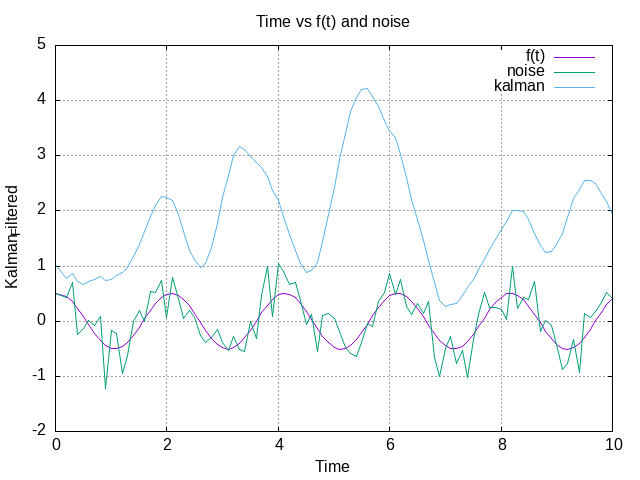
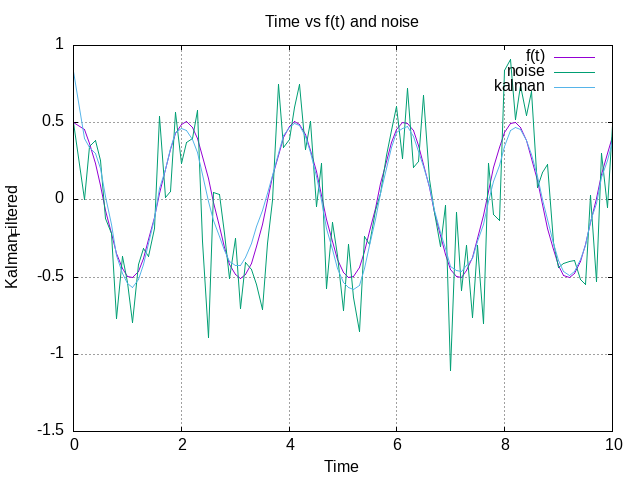
Kalman Filter Works

diff --git a/simulator.cpp b/simulator.cpp
@@ -118,10 +118,10 @@ std::ostream &operator<<(std::ostream &os, Sensor s) {
 }
 
 
-// enum To {
-//   ToPredict,
-//   ToUpdate,
-// }
+enum To {
+  ToPredict,
+  ToUpdate,
+};
 
 class KalmanFilter {
 public:
@@ -150,7 +150,7 @@ public:
   int time = 0;
   float period = 0.1f;
 
-  // To todo;
+  To todo;
 
   KalmanFilter() {
     state(0,0) = 0.5f;
@@ -180,18 +180,23 @@ public:
   }
 
   void predict() {
-    // if (todo != ToPredict) return;
+    //if (todo != ToPredict) return;
 
     popolate_model_jacobian();
 
-    buffer(0,0) = state(0,0) + period*state(1,0);
-    buffer(1,0) = state(1,0) + period*9.81*sin(state(0,0));
+    state(0,0) = state(0,0) + period*state(1,0);
+    state(1,0) = state(1,0) - period*9.81*sin(state(0,0));
 
-    state = buffer;
 
-    bufferm = Jacobian_Model*state_cov*Jacobian_Model.transpose() + W;
-    state_cov = bufferm;
-    //todo = ToUpdate;
+    // std::cout << "#####" << std::endl;
+    // std::cout << Jacobian_Model << std::endl;
+    // std::cout << "#####" << std::endl;
+
+
+
+    state_cov = Jacobian_Model*state_cov*Jacobian_Model.transpose() + W;
+    //state_cov = bufferm;
+    todo = ToUpdate;
   }
   
   void update(Sensor s) {
@@ -216,7 +221,7 @@ public:
 
     state_cov = (I - K*Jacobian_Sensor)*state_cov;
 
-    //todo = ToPredict;
+    todo = ToPredict;
   }
  
 
